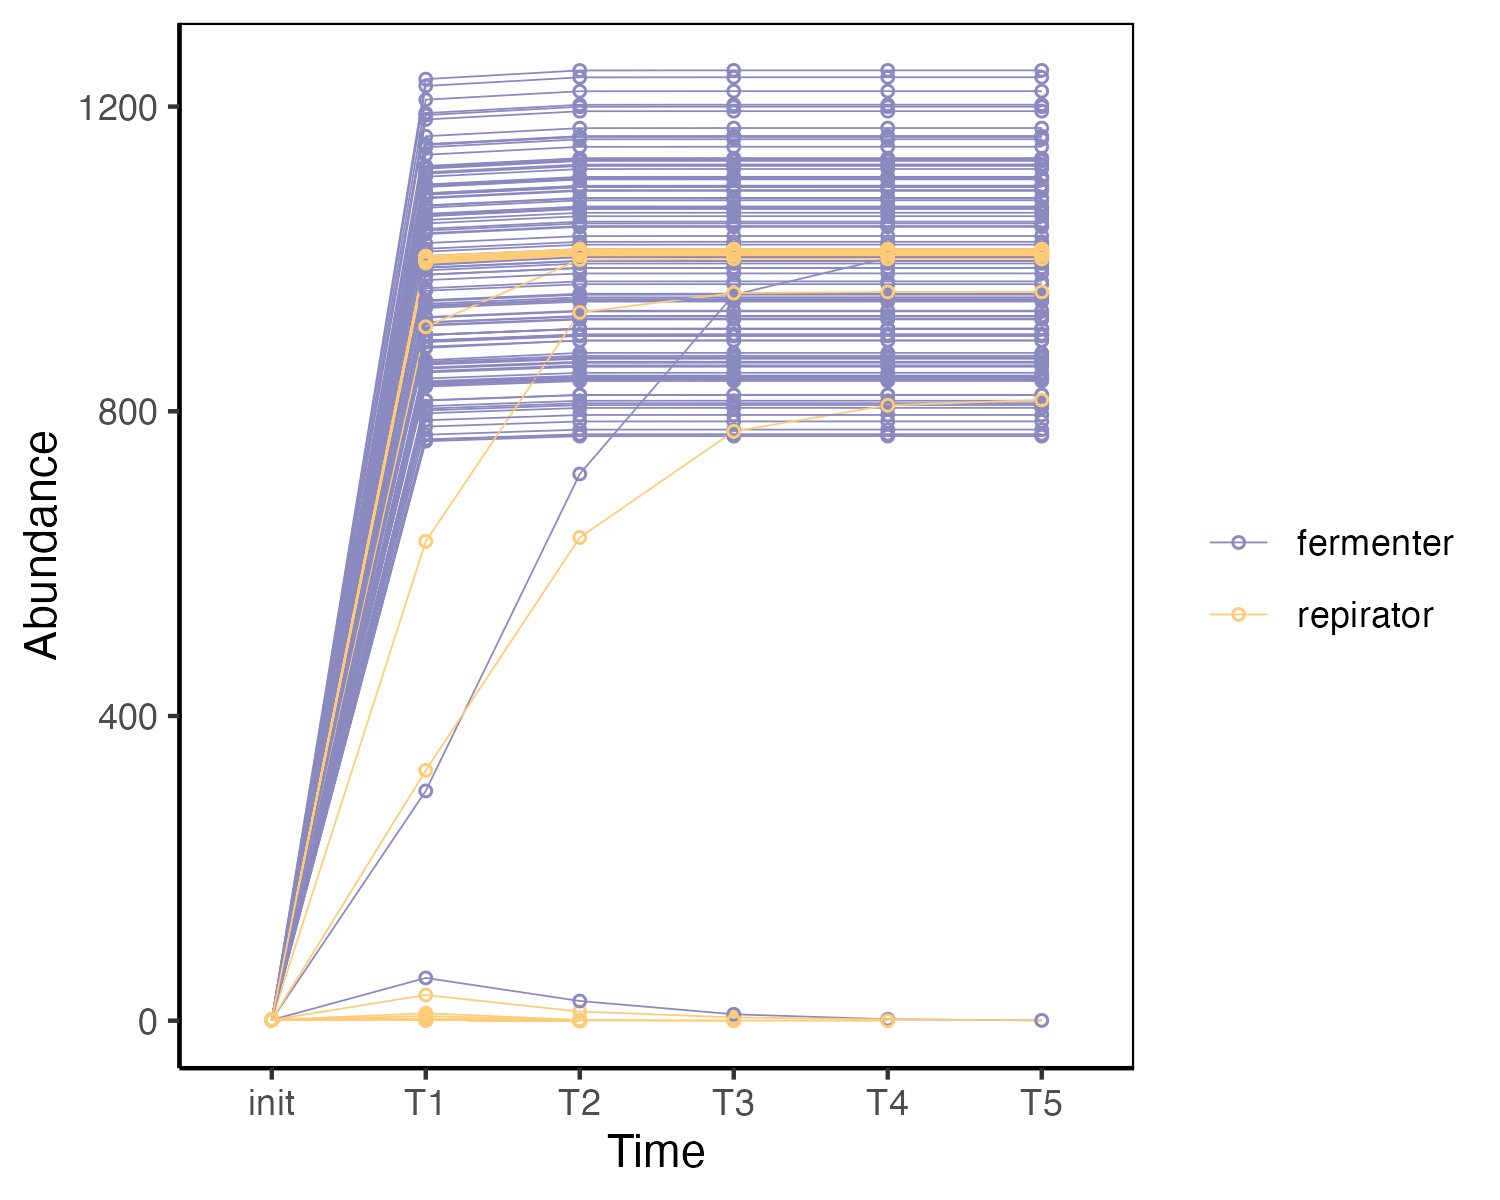
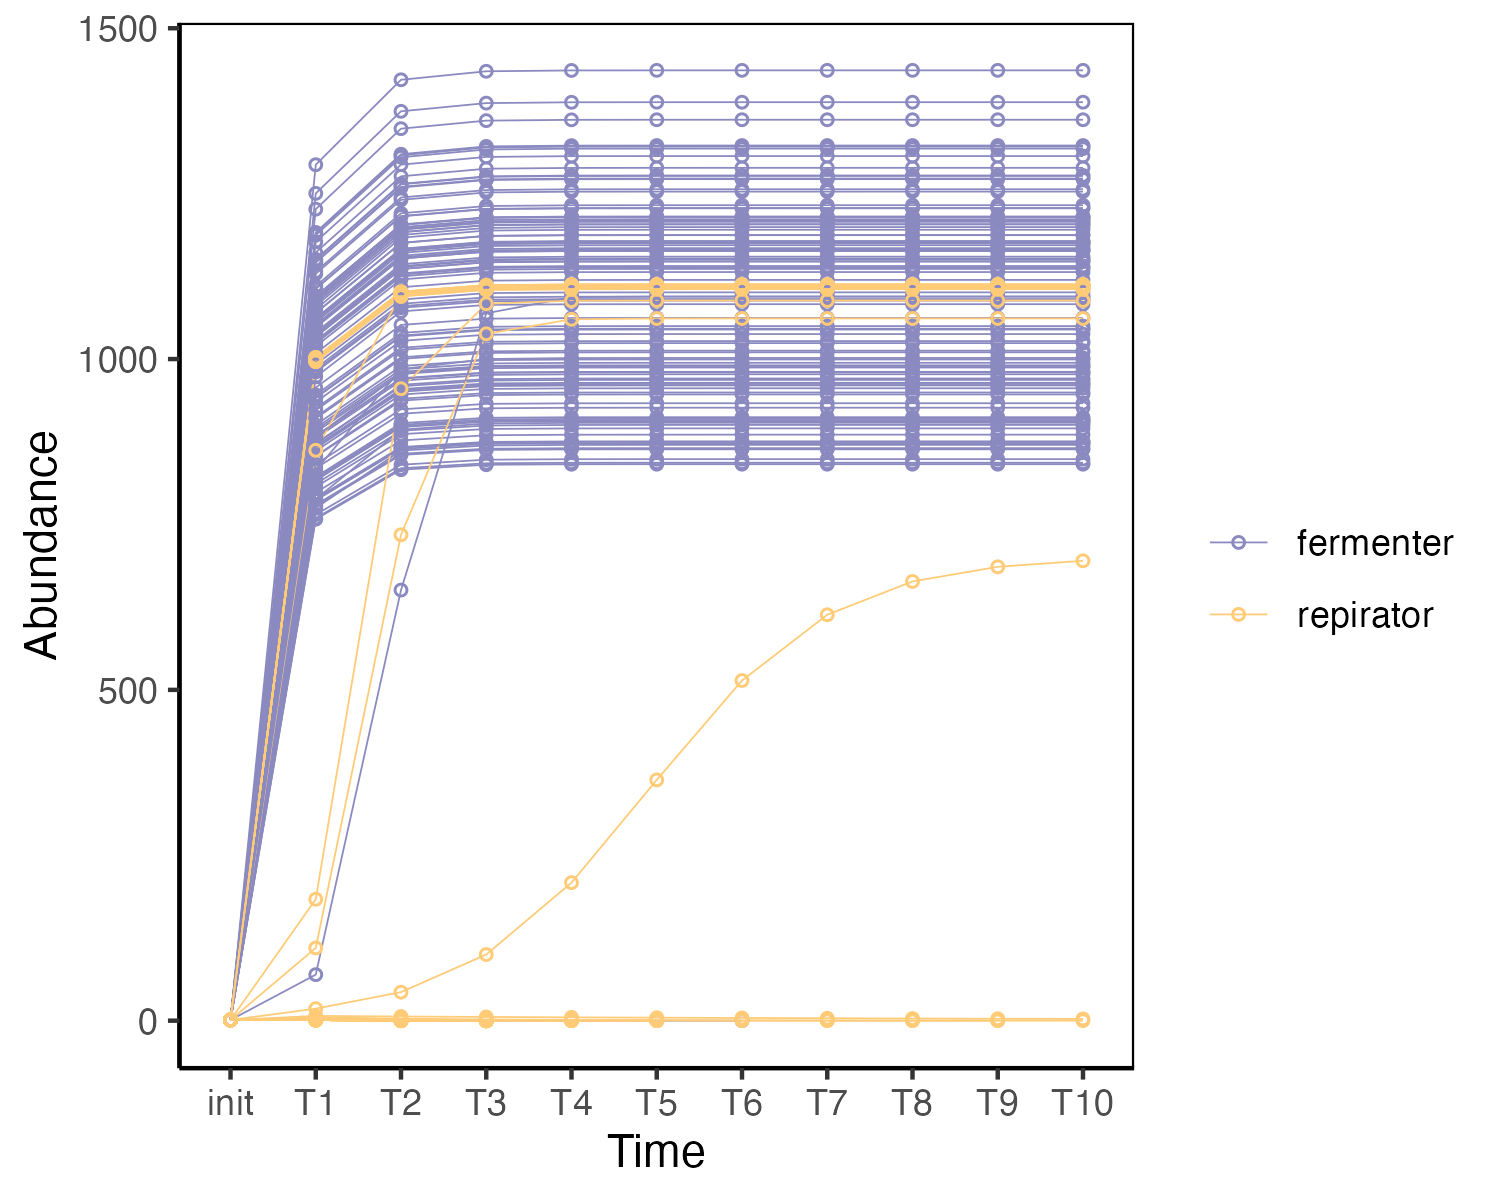
test parameters

diff --git a/simulation/user_tools.py b/simulation/user_tools.py
@@ -48,7 +48,7 @@ def sample_matrices(assumptions):
     
     # Sample c matrix; default by gamma
     if assumptions['sampling'] == 'empirical':
-        #assert assumptions['muc'] < M*assumptions['c1'], 'muc not attainable with given M and c1.'
+        assert assumptions['muc'] < M*assumptions['c1'], 'muc not attainable with given M and c1.'
         c = pd.DataFrame(np.zeros((S,M)), columns = resource_index, index = consumer_index)
         
         # Parameterize the c matrix using empirical data
@@ -135,7 +135,8 @@ def sample_matrices(assumptions):
         
         # Sample D matrix using empirical data, Specific to each functional group
     
-    elif assumptions['sampling'] == 'gaussian':
+    elif assumptions['sampling'] == 'gamma':
+        assert assumptions['muc'] < M*assumptions['c1'], 'muc not attainable with given M and c1.'
         #Initialize dataframe
         c = pd.DataFrame(np.zeros((S,M)),columns=resource_index,index=consumer_index)
         #Add Gamma-sampled values, biasing consumption of each family towards its preferred resource
@@ -207,7 +208,6 @@ def sample_matrices(assumptions):
     
     # Sample l matrix. Default by uniform
     if assumptions['sampling'] == 'empirical':
-
         l = pd.DataFrame(np.zeros((S,M)), columns = resource_index, index = consumer_index)
     
         for k in range(F):
@@ -240,7 +240,7 @@ def sample_matrices(assumptions):
                     l.loc['F'+str(k), 'T'+str(j)] = np.ones((assumptions['SA'][k], assumptions['MA'][j]))
     elif assumptions['sampling'] == 'binary':
         l = assumptions['l'] * pd.DataFrame(np.ones((S,M)), columns = resource_index, index = consumer_index)
-    elif assumptions['sampling'] == 'gaussian':
+    elif assumptions['sampling'] == 'gamma':
         l = assumptions['l'] * pd.DataFrame(np.ones((S,M)), columns = resource_index, index = consumer_index)
 
     return D, c, l
@@ -342,8 +342,8 @@ def make_resource_dynamics(assumptions):
     #          'empirical': lambda R,params: params['l']*np.array([ J_in(R,params)[i,:].dot(params['D'][i].T) for i in range(len(params['D'])) ]),
     #          'two-families': lambda R,params: (params['l']*J_in(R,params)).dot(params['D'].T)
     #         }
-
-    ### new version --accepts D as a list of matrices (using list comprehension and trimming J_in before .dot() to speed up)
+    
+    #J_out = lambda R,params: (params['l']*J_in(R,params)).dot(params['D'][i].T)
     J_out = lambda R,params: params['l']*np.array([ J_in(R,params)[i,:].dot(params['D'][i].T) for i in range(len(params['D'])) ])
 
     
@@ -383,7 +383,6 @@ def make_consumer_dynamics(assumptions):
     J_in = lambda R,params: (u[assumptions['regulation']](params['c']*R,params)
                              *params['w']*sigma[assumptions['response']](R,params))
     J_growth = lambda R,params: (1-params['l'])*J_in(R,params)
-    #J_growth = lambda R,params: J_in(R,params)
     
     return lambda N,R,params: params['g']*N*(np.sum(J_growth(R,params),axis=1)-params['m'])
 
@@ -409,7 +408,7 @@ def load_assumptions(input_row):
     assumptions['l'] = float(input_row['l'])
     
     ## Consumer consumption rates
-    scaler = 10
+    scaler = 50
     assumptions['sampling'] = str(input_row['sampling']) 
     assumptions['c_fs'] = float(input_row['c_fs']) * scaler
     assumptions['sigc_fs'] = float(input_row['sigc_fs']) * scaler
@@ -507,6 +506,7 @@ def run_simulations(input_row):
     params['c'] = c
     params['D'] = D
     params['l'] = l
+    print(len(params['D']))
     #print(params)
     # print(type(params))
     # for k in range(assumptions['n_wells']):
@@ -533,7 +533,7 @@ def run_simulations(input_row):
     npass = 20
     for i in range(npass): # number of passages
         #for j in range(5): # time of propagation 
-        Plate.Propagate(T = 10, compress_resources = False, compress_species = True)
+        Plate.Propagate(T = 1, compress_resources = False, compress_species = True)
         #print("T" + str(i+1) + "t" + str(j+1))
         print("T" + str(i+1))
         Plate.N.round(2).to_csv(input_row['output_dir'] + re.sub("init.csv", "T" + str(i+1) + ".csv", input_row["init_N0"]))
@@ -541,7 +541,7 @@ def run_simulations(input_row):
         if i == (npass-1): # last transfer
             Plate.N.round(2).to_csv(input_row['output_dir'] + re.sub("init.csv", "end.csv", input_row["init_N0"]))
             Plate.R.round(2).to_csv(input_row['output_dir'] + re.sub("init.csv", "end.csv", input_row["init_R0"]))
-        Plate.Passage(f = np.eye(a['n_wells'])/100, refresh_resource = True)
+        Plate.Passage(f = np.eye(a['n_wells'])/10, refresh_resource = True)
 
     #     Plate.RunExperiment(np.eye(a['n_wells'])/10, T = 1, npass = 1, refresh_resource = True)
     #     Plate.N.round(2).to_csv(input_row['output_dir'] + re.sub("init.csv", "end.csv", input_row["init_N0"]))
